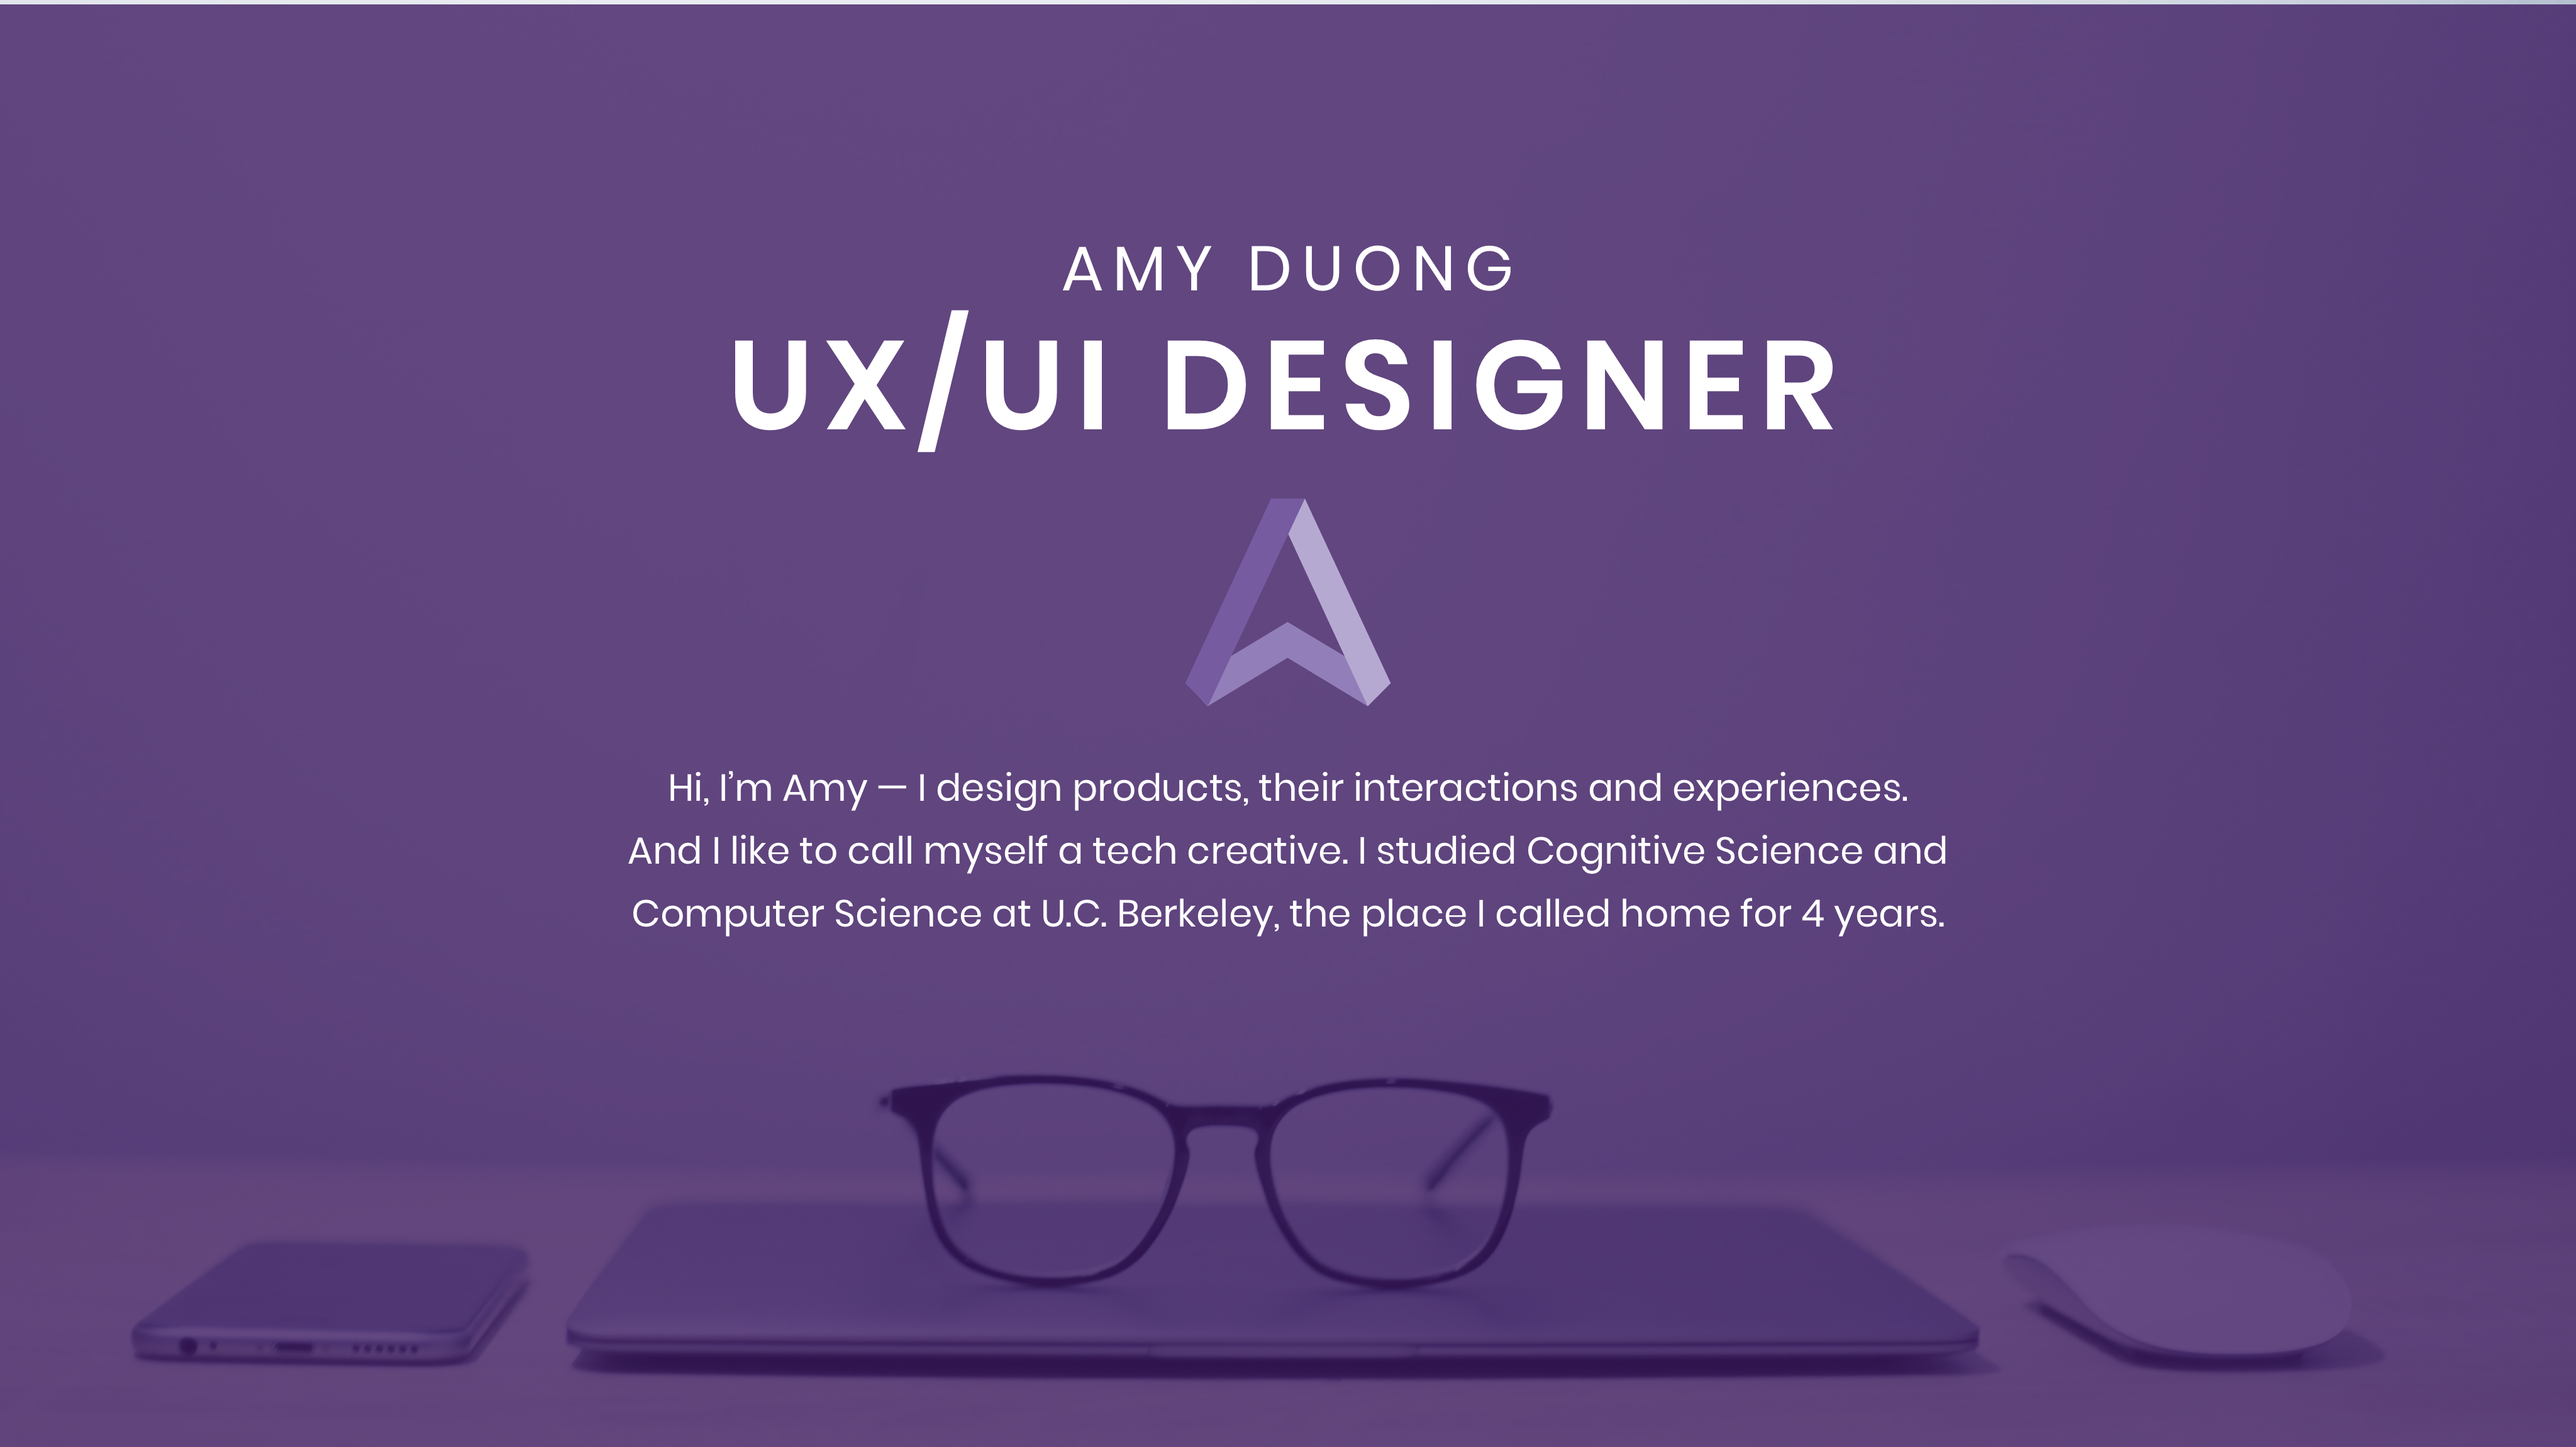
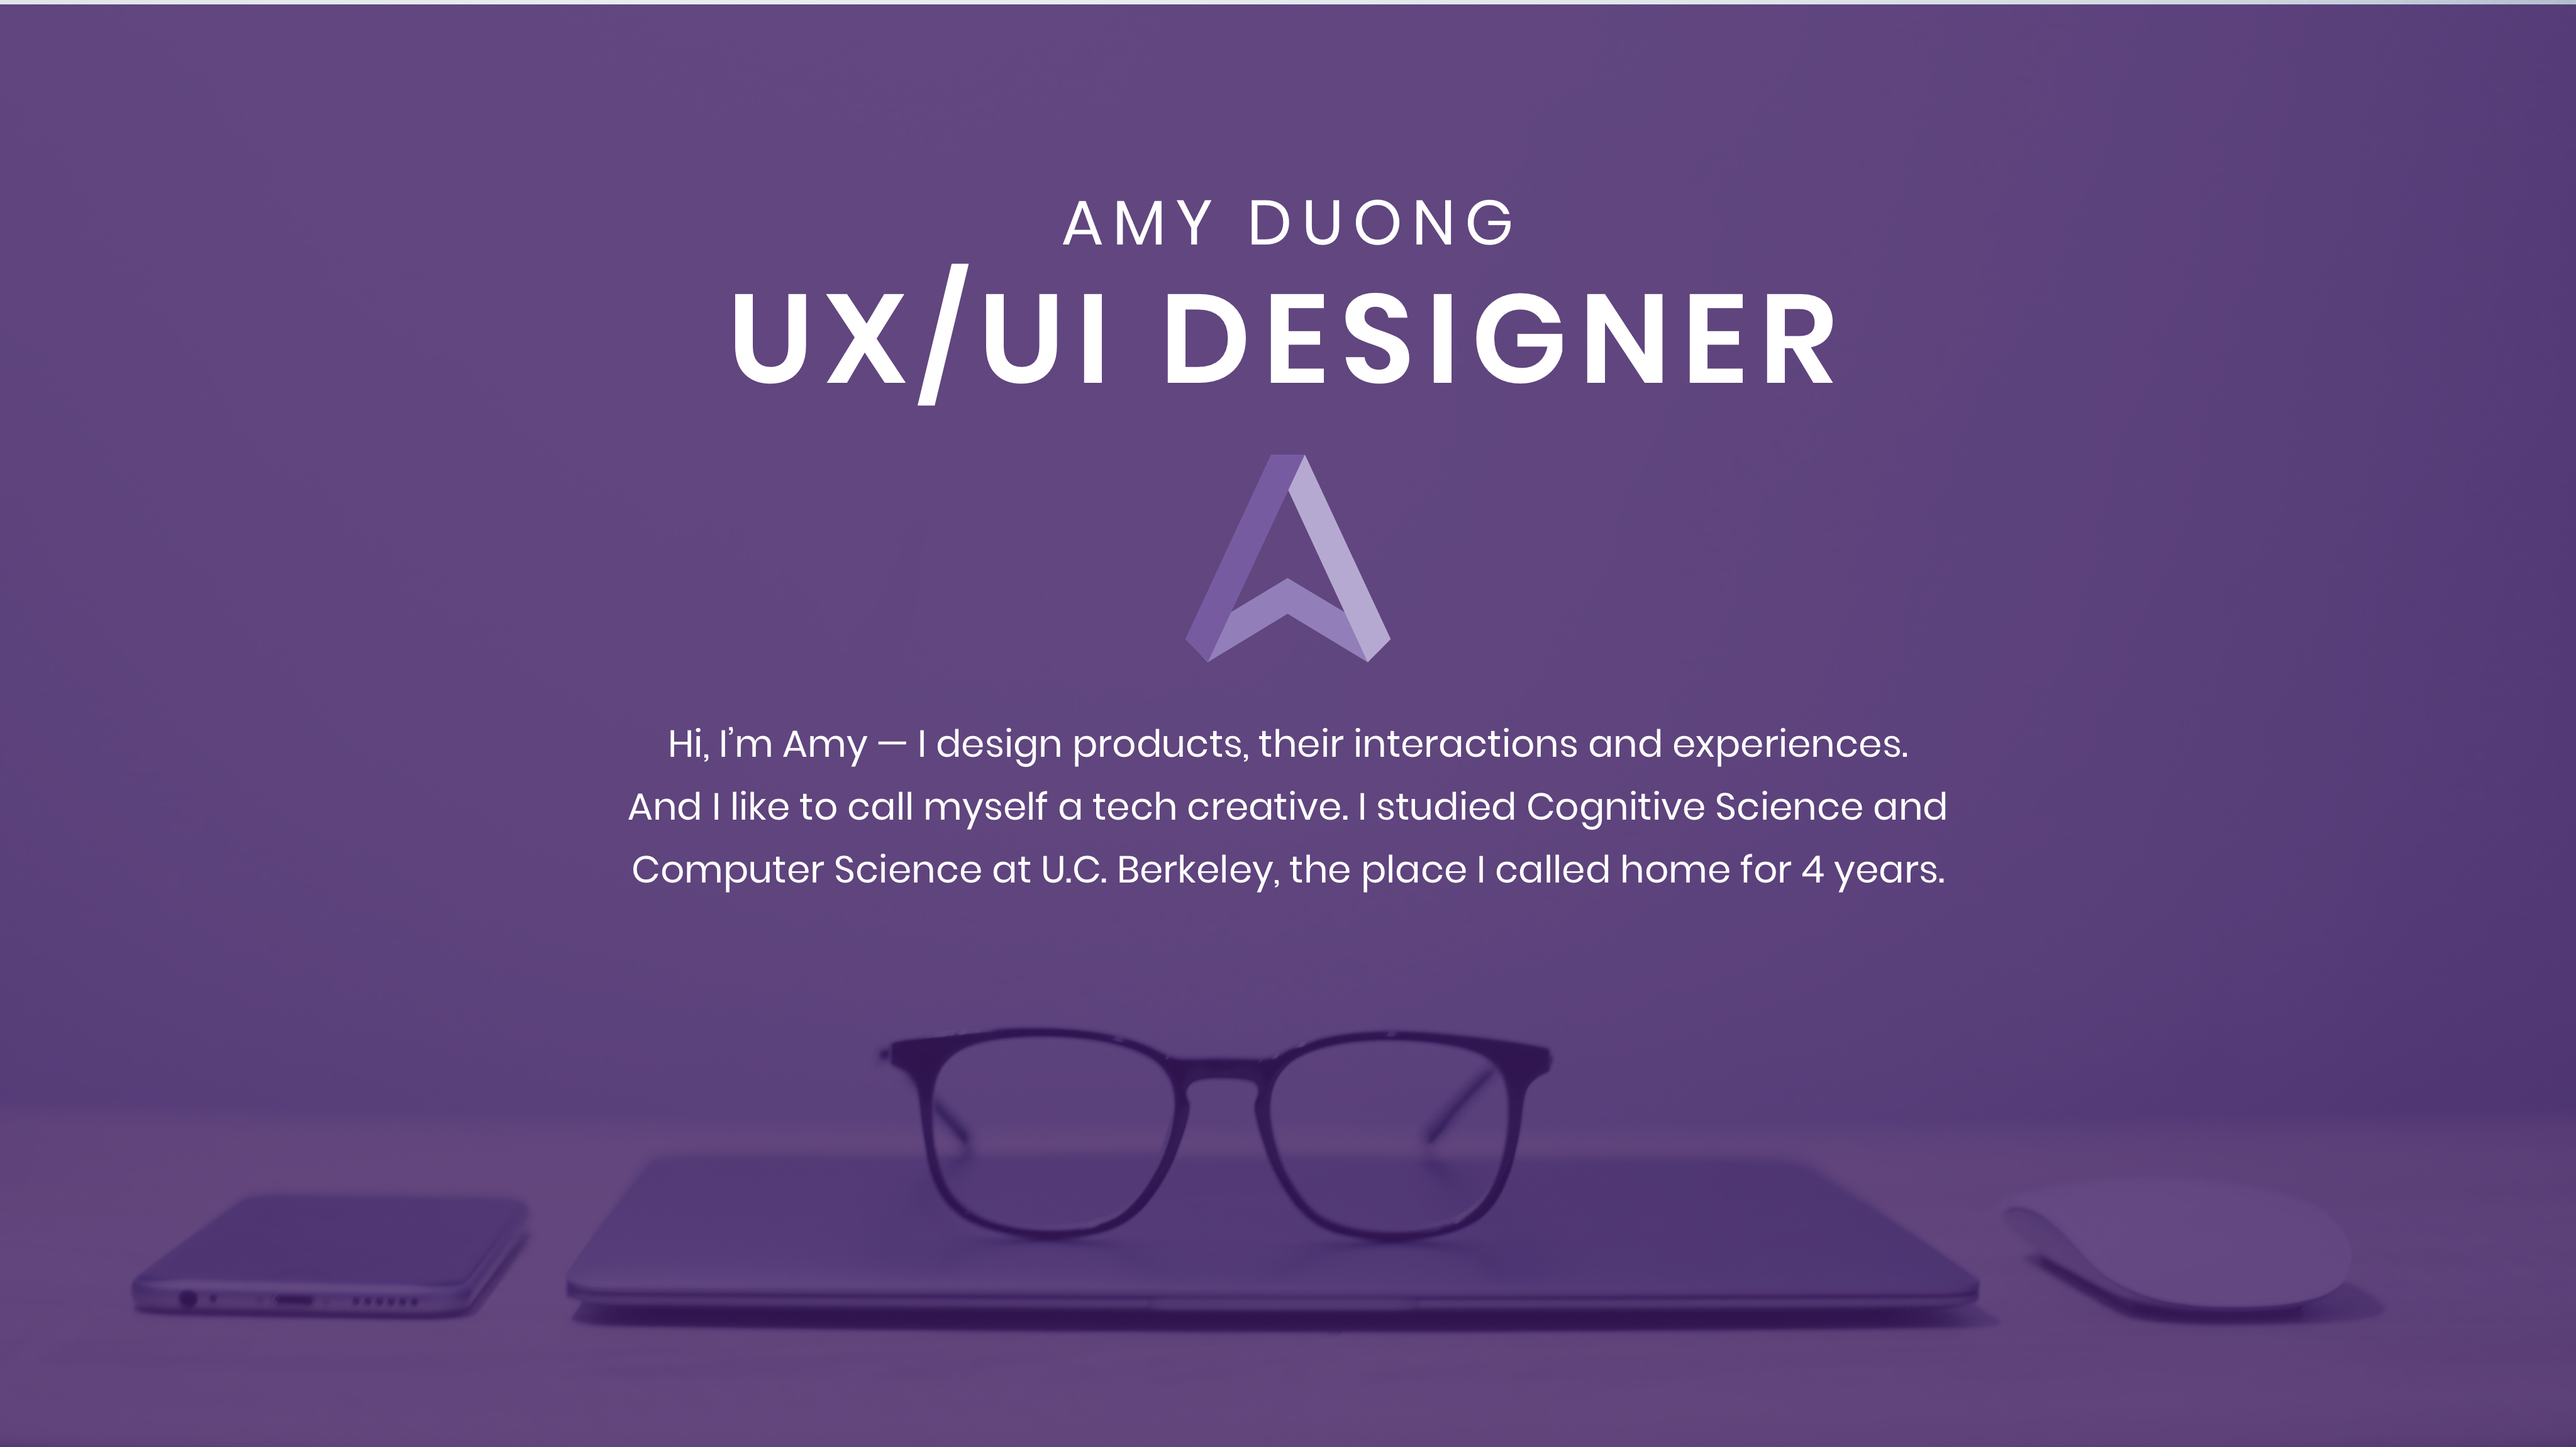
Added resume download option
Added download pdf button to resume, external link to dropbox, and also changed cropping of hero image.

Changed region(s): [[0.25, 0.1234, 0.75, 0.6477], [0.2188, 0.7094, 0.9062, 0.9561], [0.0625, 0.9253, 0.1875, 0.9561]]

diff --git a/resume.html b/resume.html
@@ -212,6 +212,8 @@
 				</section>
 			</div>
 
+			<a href="https://www.dropbox.com/s/trxnu1lycmj8hlv/Resume-AmyDuong.pdf?dl=0" rel="noopener noreferrer" target="_blank"> <img src="img/download-pdf-button.png" id="download-resume-button"> </a>
+
 		</main>
 
 		<footer>

diff --git a/resume-style.css b/resume-style.css
@@ -620,6 +620,13 @@ input, select {
 			padding: 10px;
 		}
 
+		#download-resume-button {
+			display: block;
+			width: 300px;
+			height: 60px;
+			margin: 65px auto 10px auto;
+		}
+
 		footer .mobile-hide {
 			position: relative;
 			width: 100%;
